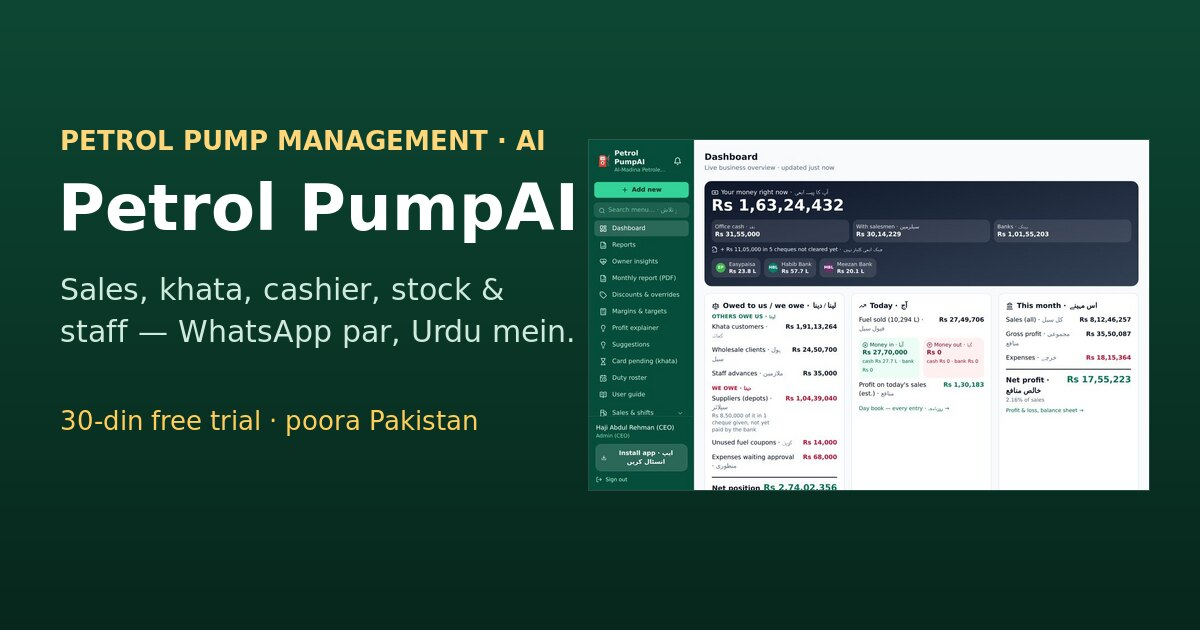
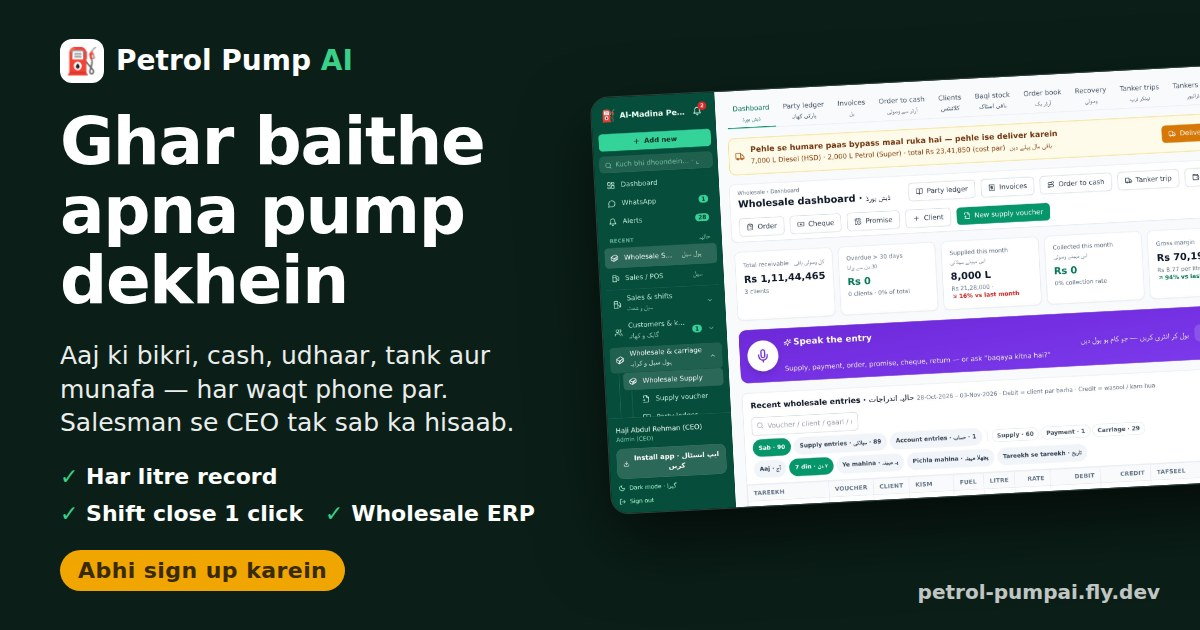
Sell page social card: new og.jpg (owner dashboard), title 'Ghar baithe apna pump dekhein', benefit description, versioned image URL
The shared-link preview now shows the wholesale dashboard with the owner headline; title and
description talk to the pump owner (what they see on the phone) instead of listing modules, and
the image URL carries ?v= so WhatsApp / Facebook drop their cached preview.

Claude-Session: https://claude.ai/code/session_01RKdZ6o8ZCXcVnE1EdADfmR

diff --git a/server/src/sell.ts b/server/src/sell.ts
@@ -19,9 +19,9 @@ export function sellPage(): string {
     .split("WHATSAPP_NUMBER").join(num)
     .split("__YEAR__").join(String(new Date().getFullYear()));
   // social card (Open Graph + Twitter) so a shared /sell link shows a pro preview with the hero image
-  const img = pub + "/og.jpg";
-  const desc = "Sales, khata, cashier, bank, stock, staff aur wholesale ERP (voucher, ledger, invoices) — sab aik app mein. Accountant-style P&L aur balance sheet. WhatsApp par receipts, Urdu reports, bank-level security. 30-din free trial.";
-  const ogTitle = "Petrol PumpAI — Petrol pump ka poora hisaab, AI ke sath";
+  const img = pub + "/og.jpg?v=3"; // bump v= when the card changes so WhatsApp / Facebook drop their cached preview
+  const desc = "Aaj ki bikri, cash, udhaar, tank aur munafa har waqt phone par. Salesman se CEO tak sab ka hisaab, shift close ek click, wholesale ERP, WhatsApp par bill. Abhi sign up karein.";
+  const ogTitle = "Ghar baithe apna pump dekhein — Petrol PumpAI";
   const social = [
     '<meta name="description" content="' + desc + '">',
     '<meta name="theme-color" content="#0a3b2b">',
@@ -37,10 +37,10 @@ export function sellPage(): string {
     '<meta property="og:image:type" content="image/jpeg">',
     '<meta property="og:image:width" content="1200">',
     '<meta property="og:image:height" content="630">',
-    '<meta property="og:image:alt" content="Petrol PumpAI dashboard">',
+    '<meta property="og:image:alt" content="Petrol PumpAI — Ghar baithe apna pump dekhein: wholesale dashboard screen">',
     '<meta name="twitter:card" content="summary_large_image">',
     '<meta name="twitter:title" content="' + ogTitle + '">',
-    '<meta name="twitter:description" content="Sales, khata, cashier, stock aur staff — WhatsApp par, Urdu mein. 30-din free trial.">',
+    '<meta name="twitter:description" content="' + desc + '">',
     '<meta name="twitter:image" content="' + img + '">',
   ].join("");
   return '<!doctype html><html lang="en"><head><meta charset="utf-8"><meta name="viewport" content="width=device-width,initial-scale=1,viewport-fit=cover">'
